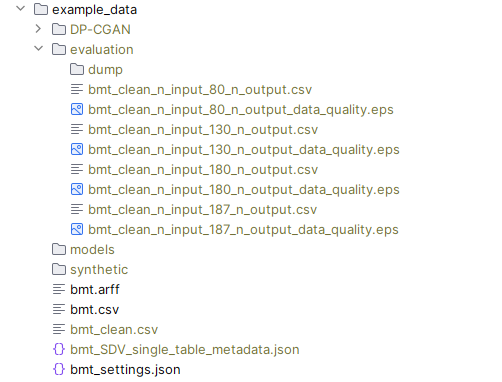
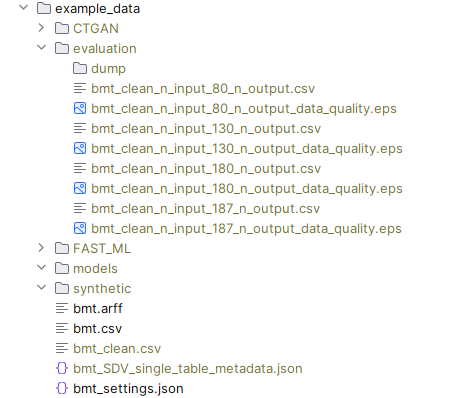
Revert "include preprint DOI"

Changed region(s): [[0.0308, 0.0, 0.8943, 1.0]]

diff --git a/src/generator_sdv.py b/src/generator_sdv.py
@@ -8,8 +8,9 @@ import warnings
 import numpy as np
 import pandas as pd
 
-from dp_cgans import DP_CGAN
-# from sdv.lite import TabularPreset
+# DP-CGAN was built in a different SDV version and should only be imported when used
+# from dp_cgans import DP_CGAN
+from sdv.lite import TabularPreset
 
 # private modules
 from src import data_processing_general, file_handling
@@ -717,9 +718,10 @@ def _dp_cgan_initiate(table_metadata, epochs, batch_size, log_frequency, embeddi
     if private is None:
         private = False
 
-    return DP_CGAN(table_metadata=table_metadata, epochs=epochs, batch_size=batch_size,
+    return None
+    # DP-CGAN was built in a different SDV version and should only be imported when used
+    """return DP_CGAN(table_metadata=table_metadata, epochs=epochs, batch_size=batch_size,
                    log_frequency=log_frequency, embedding_dim=embedding_dim, generator_dim=generator_dim,
                    discriminator_dim=discriminator_dim, generator_lr=generator_lr, generator_decay=generator_decay,
                    discriminator_lr=discriminator_lr, discriminator_decay=discriminator_decay,
-                   discriminator_steps=discriminator_steps, verbose=verbose, cuda=cuda, private=private)
-
+                   discriminator_steps=discriminator_steps, verbose=verbose, cuda=cuda, private=private)"""

diff --git a/README.md b/README.md
@@ -1,4 +1,4 @@
-# AYA-synthetic-data
+# strong-aya-synthetic-data
 
 **What does this repository represent?**
 
@@ -8,7 +8,7 @@ The code in this repository was specifically designed to investigate the effects
 variation in input (training data) and output (produced synthetic data) sample size on synthetic data veracity, privacy
 concealment, and utility.
 _A more extensive description of the methodology that this repository represents can be found in the associated
-scientific publication: currently as preprint on MedRxiv; https://doi.org/10.1101/2024.03.04.24303526_
+scientific publication:_
 
 **Where have the contents of this repository been used and reported?**
 
@@ -24,7 +24,7 @@ However, certain components such as _data_preprocessing.py_, _evaluation_visuali
 the utility assessment in _evaluation_metric.py_ were specifically designed for the aforementioned dataset and
 publication.
 
-**How are the code and scripts in this repository to be used?**
+**How are the code and scripts in this repository to be used**
 
 There is a worked-out example provided in the _example_exercise.ipynb_ Jupyter notebook.
 This example makes use of a public dataset on paediatric bone marrow transplantation developed by ... that is available
@@ -32,9 +32,8 @@ through:
 
 **How was this work funded?**
 
-This work and the associated scientific publication were predominantly
-supported by the European Union’s Horizon 2020 research and innovation programme through _The STRONG-AYA Initiative_
-(Grant agreement ID: 101057482).
+This work and the associated scientific publication were funded through EU Horizon 2021 project The STRONG-AYA
+Initiative (DOI: 10.3030/101057482)
 
 **What are the main libraries that this research code relied on?**
 
@@ -42,7 +41,7 @@ The synthetic data was generated using
 
 * _Synthetic Data Vault_ (SDV) (https://github.com/sdv-dev/SDV), and
 * _Differentially Private - Conditional Generative Adversarial Networks_ (
-DP-CGAN) (https://github.com/sunchang0124/dp_cgans).
+  DP-CGAN) (https://github.com/sunchang0124/dp_cgans).
 
 The evaluations were performed using:
 
